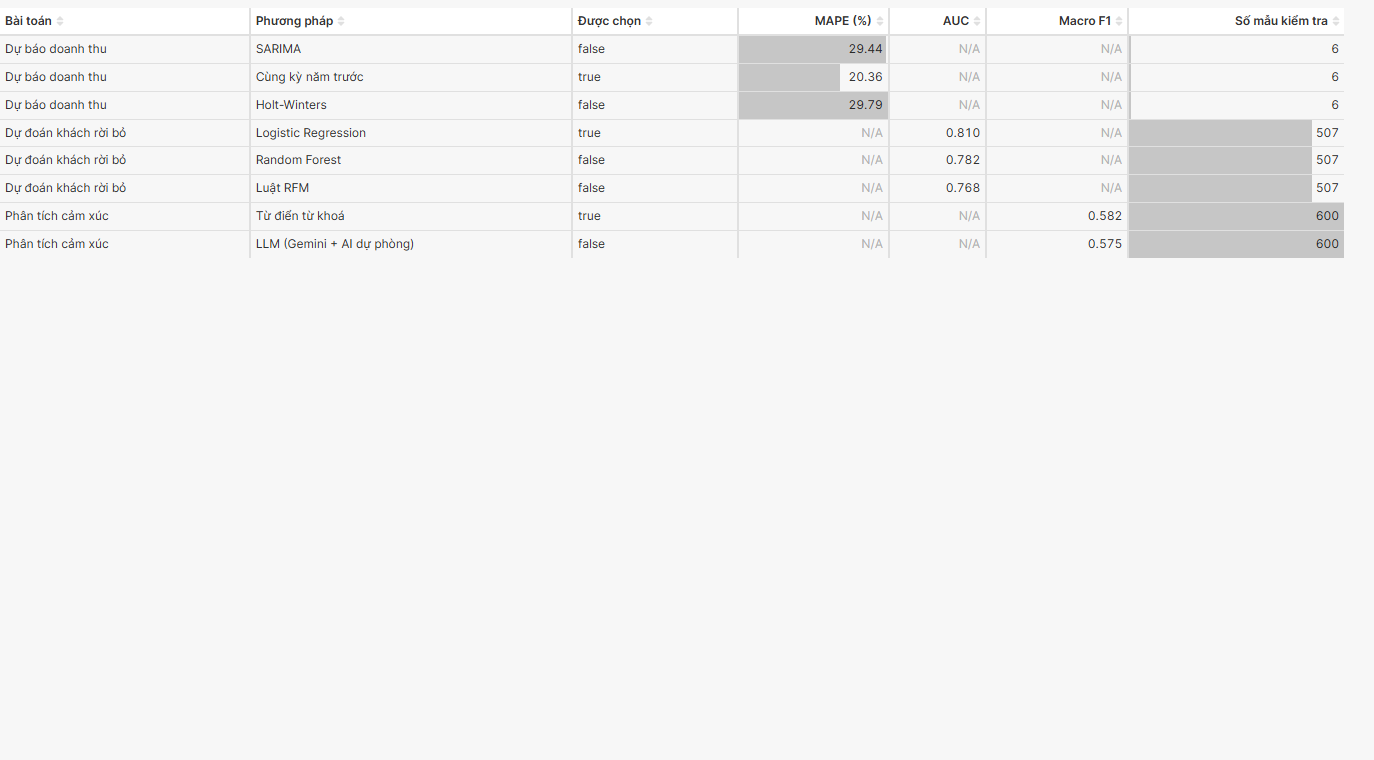
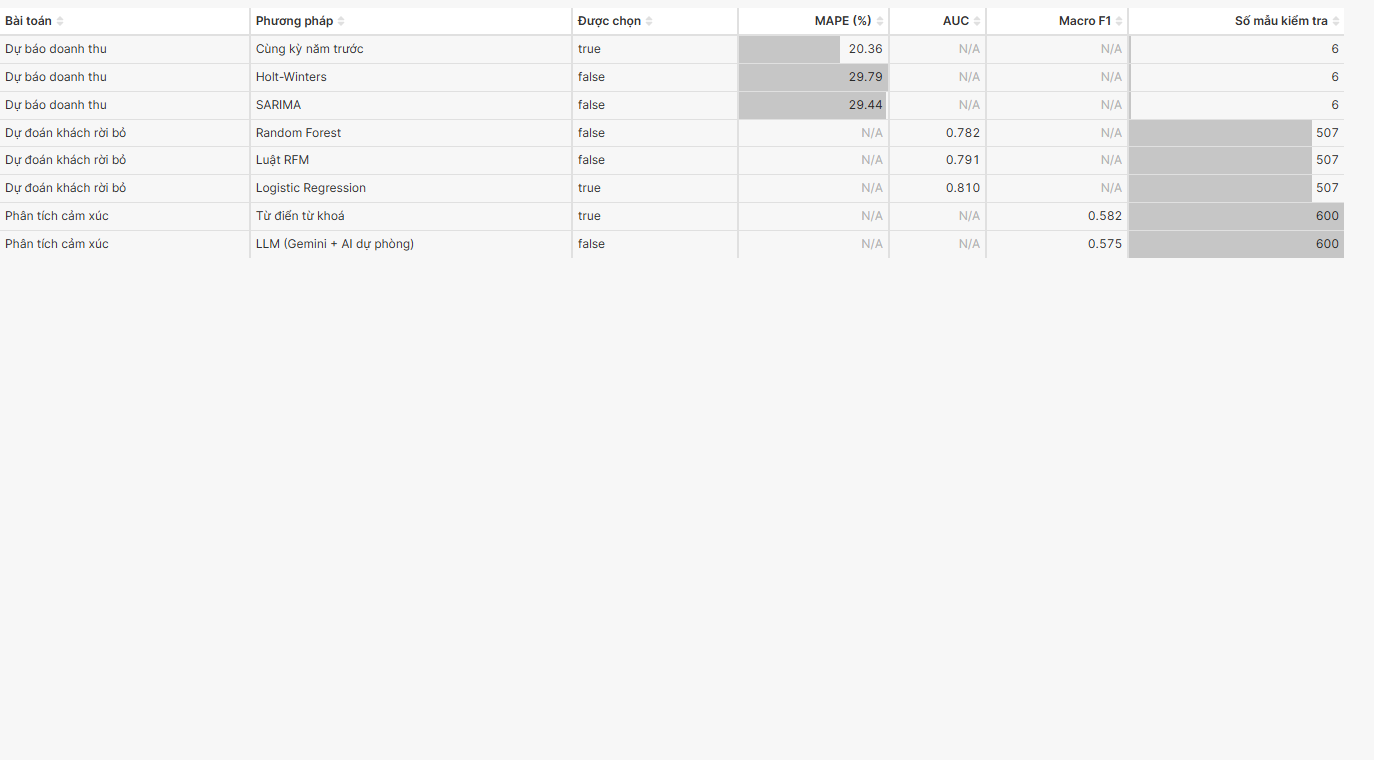
feat(insights): luật RFM kết hợp recency + tần suất, xếp hạng theo tập huấn luyện; khoảng tin cậy Holt-Winters bằng mô phỏng
- churn.py: RFMRule (0,7·hạng% recency + 0,3·hạng% tần suất thấp), fit trên tập huấn luyện → AUC 0,768 → 0,791
- forecast.py: Holt-Winters lấy khoảng tin cậy 95% bằng simulate 1.000 lần (rộng dần theo số tháng), lỗi thì quay về ±1,96σ
- Thêm 3 test; chạy lại batch 20261017-170211; cập nhật số liệu, ảnh và file Word checklist 05

diff --git a/insights/pipeline/churn.py b/insights/pipeline/churn.py
@@ -3,6 +3,7 @@
 import logging
 from datetime import datetime, time, timedelta
 
+import numpy as np
 import pandas as pd
 from django.db.models import Count, DecimalField, ExpressionWrapper, F, Max, Min, Q, Sum
 from django.utils import timezone
@@ -169,17 +170,37 @@ def _new_model(method):
     raise ValueError(f"Không có bộ phân loại cho phương pháp {method}.")
 
 
-def _rule_scores(frame):
-    # Percentile rank of recency: the longer since the last purchase, the higher the risk.
-    return frame["recency_days"].rank(method="average", pct=True).to_numpy()
+class RFMRule:
+    """Luật RFM không học máy: điểm = 0,7 × hạng % recency (lâu không mua → cao) + 0,3 × hạng % tần suất thấp.
+
+    Hạng phần trăm tính so với tập tham chiếu lúc ``fit`` (tập huấn luyện), nên điểm của một khách không phụ thuộc
+    vào việc khách đó được chấm cùng những ai – giống cách một mô hình học máy được huấn luyện rồi mới chấm.
+    """
+
+    WEIGHTS = {"recency_days": 0.7, "frequency": 0.3}
+
+    def fit(self, frame):
+        self.reference_ = {column: np.sort(frame[column].to_numpy(dtype=float)) for column in self.WEIGHTS}
+        return self
+
+    def _rank(self, column, values):
+        reference = self.reference_[column]
+        return np.searchsorted(reference, np.asarray(values, dtype=float), side="right") / len(reference)
+
+    def score(self, frame):
+        recency = self._rank("recency_days", frame["recency_days"])
+        low_frequency = 1 - self._rank("frequency", frame["frequency"])
+        return np.clip(self.WEIGHTS["recency_days"] * recency + self.WEIGHTS["frequency"] * low_frequency, 0, 1)
 
 
 def _make_method(method, train_x, test_x, y_train, y_test, all_x, scoring_x, batch_reference):
     def save_results(run):
         if method == "rfm_rule":
-            test_probabilities = _rule_scores(test_x)
-            all_probabilities = _rule_scores(scoring_x)
-            params = {"formula": "percentile_rank(recency_days); older last purchase => higher score"}
+            # Như các mô hình học máy: "fit" trên tập huấn luyện để đánh giá, "fit" lại trên toàn bộ tập có nhãn để chấm
+            test_probabilities = RFMRule().fit(train_x).score(test_x)
+            all_probabilities = RFMRule().fit(all_x).score(scoring_x)
+            params = {"formula": "0,7·hạng%(recency_days) + 0,3·(1 − hạng%(frequency)); hạng tính theo tập huấn luyện",
+                      "weights": RFMRule.WEIGHTS}
         else:
             model = _new_model(method)
             model.fit(train_x, y_train)

diff --git a/insights/pipeline/forecast.py b/insights/pipeline/forecast.py
@@ -8,7 +8,7 @@ import pandas as pd
 from statsmodels.tsa.holtwinters import ExponentialSmoothing
 from statsmodels.tsa.statespace.sarimax import SARIMAX
 
-from insights.conf import BACKTEST_MONTHS, FORECAST_HORIZON
+from insights.conf import BACKTEST_MONTHS, FORECAST_HORIZON, RANDOM_STATE
 from insights.data import monthly_revenue_series
 from insights.models import ModelRun, RevenueForecast
 
@@ -16,6 +16,7 @@ from .base import MethodResult, run_method, select_best
 
 METHODS = ("seasonal_naive", "holt_winters", "sarima")
 Z_95 = 1.96
+SIMULATIONS = 1000  # số lần mô phỏng để lấy khoảng tin cậy Holt-Winters
 # Dự báo vượt quá MAX_GROWTH lần doanh thu tháng lớn nhất trong lịch sử → coi là mô hình phân kỳ
 MAX_GROWTH = 3
 
@@ -86,12 +87,23 @@ def _holt_winters(series, horizon, stage):
         predictions = np.asarray(model.forecast(horizon), dtype=float)
         fitted = np.asarray(model.fittedvalues, dtype=float)
         method = "additive_nonseasonal"
-    forecast, lower, upper = _interval(predictions, _error_std(series, fitted))
+    try:
+        # Khoảng tin cậy 95% bằng mô phỏng: rộng dần theo số bước dự báo, sát với mô hình hơn ±1,96σ cố định
+        sims = np.asarray(model.simulate(horizon, repetitions=SIMULATIONS, error="add", random_state=RANDOM_STATE))
+        lower, upper = np.percentile(sims.reshape(horizon, -1), [2.5, 97.5], axis=1)
+        forecast = np.maximum(predictions, 0)
+        lower = np.minimum(np.maximum(lower, 0), forecast)
+        upper = np.maximum(upper, forecast)
+        confidence = f"mô phỏng {SIMULATIONS} lần (simulate), phân vị 2,5% – 97,5%"
+    except Exception as exc:  # noqa: BLE001 – mô phỏng lỗi thì quay về cách cũ, ghi lại lý do
+        notes.append(f"Holt-Winters ({stage}): không mô phỏng được khoảng tin cậy ({exc}); dùng ±1,96σ sai số fitted.")
+        forecast, lower, upper = _interval(predictions, _error_std(series, fitted))
+        confidence = "forecast ± 1.96 × độ lệch sai số fitted"
     return Prediction(
         forecast, lower, upper,
         {"model": method, "trend": "add", "seasonal": "add" if method == "additive_seasonal" else None,
          "seasonal_periods": 12 if method == "additive_seasonal" else None,
-         "confidence": "forecast ± 1.96 × độ lệch sai số fitted"},
+         "confidence": confidence},
         notes,
     )
 

diff --git a/insights/tests/test_churn.py b/insights/tests/test_churn.py
@@ -135,3 +135,29 @@ class ChurnRiskPageTests(TestCase):
             ChurnScore.objects.create(run=run_row, customer=self.customer, probability=probability,
                                       risk_band=risk_band(probability))
         self.assertContains(self.client.get(self.url), "78% – Cao")
+
+
+class RFMRuleTests(TestCase):
+    """Luật RFM: kết hợp recency + tần suất thấp, xếp hạng theo tập huấn luyện (giống backup, AUC tốt hơn)."""
+
+    def test_low_frequency_raises_score_at_same_recency(self):
+        import pandas as pd
+
+        from insights.pipeline.churn import RFMRule
+
+        train = pd.DataFrame({"recency_days": [10, 50, 100, 200, 300], "frequency": [9, 5, 3, 2, 1]})
+        rule = RFMRule().fit(train)
+        same_recency = pd.DataFrame({"recency_days": [100, 100], "frequency": [9, 1]})
+        loyal, rare = rule.score(same_recency)
+        self.assertGreater(rare, loyal)
+        self.assertTrue(0 <= loyal <= 1 and 0 <= rare <= 1)
+
+    def test_score_does_not_depend_on_who_else_is_scored(self):
+        import pandas as pd
+
+        from insights.pipeline.churn import RFMRule
+
+        rule = RFMRule().fit(pd.DataFrame({"recency_days": [10, 50, 100, 200], "frequency": [6, 4, 2, 1]}))
+        alone = rule.score(pd.DataFrame({"recency_days": [120], "frequency": [2]}))[0]
+        crowd = rule.score(pd.DataFrame({"recency_days": [5, 120, 400], "frequency": [9, 2, 1]}))[1]
+        self.assertAlmostEqual(alone, crowd)

diff --git a/insights/tests/test_forecast.py b/insights/tests/test_forecast.py
@@ -102,3 +102,14 @@ class ForecastReviewFixTests(TestCase):
         self.assertIn("không dùng được mùa vụ", " ".join(short.notes))
         full = forecast._holt_winters(self._series(30), 6, "dự báo tới")
         self.assertEqual(full.params["model"], "additive_seasonal")
+
+
+class HoltWintersIntervalTests(TestCase):
+    def test_interval_from_simulation_and_widens_with_horizon(self):
+        index = pd.date_range("2023-01-01", periods=30, freq="MS")
+        series = pd.Series([1_000_000 + (m % 12) * 200_000 + m * 5_000 for m in range(30)], index=index, dtype="int64")
+        prediction = forecast._holt_winters(series, 6, "dự báo tới")
+        self.assertIn("mô phỏng", prediction.params["confidence"])
+        self.assertTrue(all(lo <= f <= hi for lo, f, hi in zip(prediction.lower, prediction.values, prediction.upper)))
+        width = prediction.upper - prediction.lower
+        self.assertGreaterEqual(width[-1], width[0])

diff --git a/docs/th2/bao_cao/07_de_xuat_mo_rong.md b/docs/th2/bao_cao/07_de_xuat_mo_rong.md
@@ -21,13 +21,13 @@ khác nhau**, cộng thêm 2 tính năng LLM có sẵn trong SmartCRM:
 | | *Có sẵn trong SmartCRM:* báo cáo nhận định | Tóm tắt tình hình kinh doanh | Dùng tại trang Báo cáo AI |
 
 Mỗi bài toán có **một phương pháp đơn giản làm mốc** và đánh giá trên **cùng tập kiểm tra**, nên chênh lệch giữa các phương
-pháp là so sánh công bằng (mục 3). Kết quả so sánh thực tế (dự báo, rời bỏ: batch `20261017-072049`; cảm xúc:
+pháp là so sánh công bằng (mục 3). Kết quả so sánh thực tế (dự báo, rời bỏ: batch `20261017-170211`; cảm xúc:
 `20261014-215419`):
 
 | Bài toán | Phương pháp được chọn | Chỉ số | Nhận xét |
 |---|---|---|---|
 | Dự báo doanh thu | **Cùng kỳ năm trước** (luật) | MAPE 20,4% (SARIMA 29,4%, Holt-Winters 29,8%) | Chuỗi 24 tháng quá ngắn để mô hình thống kê học mùa vụ – mốc đơn giản thắng |
-| Khách rời bỏ | **Logistic Regression** (học máy) | AUC 0,810 (Random Forest 0,782, Luật RFM 0,768) | Học máy hơn luật RFM không nhiều – tín hiệu chính là thời gian từ lần mua cuối |
+| Khách rời bỏ | **Logistic Regression** (học máy) | AUC 0,810 (Luật RFM 0,791, Random Forest 0,782) | Học máy hơn luật RFM không nhiều – tín hiệu chính là thời gian từ lần mua cuối |
 | Cảm xúc | **Từ điển từ khoá** (luật) | Macro F1 0,582 (LLM 0,575) | LLM bắt câu tiêu cực tốt hơn hẳn (129/144 = 89,6% so với 82/144 = 56,9%) – cơ sở của đề xuất #6 |
 
 Bài học chung: **phương pháp phức tạp chỉ đáng dùng khi thắng được mốc đơn giản trên cùng tập kiểm tra** – nhóm giữ

diff --git a/docs/th2/bao_cao/06_dashboard.md b/docs/th2/bao_cao/06_dashboard.md
@@ -50,7 +50,7 @@ nhất"* (id 92) vì trong dữ liệu Online Retail II **mọi khách đều th
 chưa phân công) – biểu đồ theo nhóm chỉ có 1 cột, không trả lời được câu hỏi nào. Bộ lọc *Nhóm khách* vẫn giữ để dùng
 khi CRM có khách nhiều nhóm.
 
-## 5.3. Kiểm tra số liệu từng biểu đồ (dữ liệu thật, batch 20261017-072049 / cảm xúc 20261014-215419)
+## 5.3. Kiểm tra số liệu từng biểu đồ (dữ liệu thật, batch 20261017-170211 / cảm xúc 20261014-215419)
 
 Mỗi biểu đồ: đọc số trên dashboard, chạy câu SQL tương ứng trên view `ai.*` qua MCP (`superset_sqllab_execute_query`,
 tài khoản `mcp_agent`) rồi so.
@@ -66,7 +66,7 @@ tài khoản `mcp_agent`) rồi so.
 | 89 | MAPE 20,36 · 29,44 · 29,79 | `ai.model_run` module forecast | 20,3593 · 29,4439 · 29,7908 | ✅ |
 | 91 | Dòng 1: Khách UK-16446, 100,0% | `ORDER BY probability DESC LIMIT 1` | Khách UK-16446, 0,999996 | ✅ |
 | 92 | 01/2024 ≈ 93%; 11/2025 ≈ 21% | `AVG(probability)` theo tháng đơn gần nhất | 0,934 · 0,213 | ✅ |
-| 93 | AUC 0,810 · 0,782 · 0,768 | `ai.model_run` module churn | 0,8102 · 0,7820 · 0,7677 | ✅ |
+| 93 | AUC 0,810 · 0,791 · 0,782 | `ai.model_run` module churn | 0,8102 · 0,7907 · 0,7820 | ✅ |
 | 94 | 11/2025: Tích cực 22 · Trung lập 10 · Tiêu cực 10 | đếm theo tháng × nhãn | 22 · 10 · 10 | ✅ |
 | 95 | Email 244 · Chat 242 · Trực tiếp 60 · Điện thoại 54 | đếm theo `channel` | 244 · 242 · 60 · 54 | ✅ |
 | 96 | Macro F1 0,582 · 0,575 | `ai.model_run` module sentiment | 0,5824 · 0,5745 | ✅ |

diff --git a/docs/th2/bao_cao/02_du_bao.md b/docs/th2/bao_cao/02_du_bao.md
@@ -30,7 +30,9 @@ hoàn thành toàn bộ dữ liệu trước khi loại tháng chưa trọn vẹ
   `1,96 × độ lệch chuẩn sai số` trên phần huấn luyện.
 - **Holt-Winters:** dùng `statsmodels.ExponentialSmoothing` với xu hướng cộng,
   mùa vụ cộng, chu kỳ 12 tháng và `initialization_method="estimated"`. Khoảng
-  tin cậy dùng độ lệch sai số giữa fitted values và dữ liệu huấn luyện. Mô hình
+  tin cậy 95% lấy bằng **mô phỏng 1.000 lần** (`simulate`, phân vị 2,5% – 97,5%) nên
+  **rộng dần theo số tháng dự báo** – phản ánh đúng việc càng dự báo xa càng kém chắc
+  chắn (nếu mô phỏng lỗi thì dùng ±1,96 × độ lệch sai số, ghi trong `notes`). Mô hình
   luôn thử bản có mùa vụ trước; khi backtest chỉ có 18 tháng (chưa đủ 2 chu kỳ),
   statsmodels báo không tính được hệ số mùa vụ ban đầu nên dùng bản không mùa vụ
   – ghi trong `notes` và `params.model` của lần chạy. Dự báo 6 tháng tới (24 tháng
@@ -53,7 +55,7 @@ bỏ qua khi tính MAPE.
 
 ## 5. Kết quả
 
-Mã batch: `20261017-072049`. Chỉ số tính trên dự báo đã làm tròn đến đồng – đúng giá
+Mã batch: `20261017-170211`. Chỉ số tính trên dự báo đã làm tròn đến đồng – đúng giá
 trị lưu trong `RevenueForecast`, nên tính lại được từ các dòng `backtest`.
 
 | Phương pháp | MAE (VNĐ) | RMSE (VNĐ) | MAPE (%) | Huấn luyện | Kiểm tra | Được chọn |

diff --git a/docs/th2/bao_cao/05_mcp.md b/docs/th2/bao_cao/05_mcp.md
@@ -60,7 +60,7 @@ tiếng Việt cho Claude** được làm trực tiếp khi quay video (mục 4.
 | 85 | [Tổng quan] Tỉ lệ cảm xúc | `ai.interaction_sentiment` | Tròn | nhóm `label_pred`; metric `so_cau`; lọc `is_selected` |
 
 Đối chiếu bằng `superset_sqllab_execute_query` trên **kết quả mô hình thật** (dự báo, rời bỏ: batch
-`20261017-072049`; cảm xúc: batch `20261014-215419`). Lần đối chiếu đầu (14/10) trên dữ liệu giả `seed_ai_demo` cũng khớp.
+`20261017-170211`; cảm xúc: batch `20261014-215419`). Lần đối chiếu đầu (14/10) trên dữ liệu giả `seed_ai_demo` cũng khớp.
 
 | Biểu đồ | Số trên biểu đồ | Truy vấn đối chiếu | Kết quả SQL | Khớp |
 |---|---|---|---|---|
